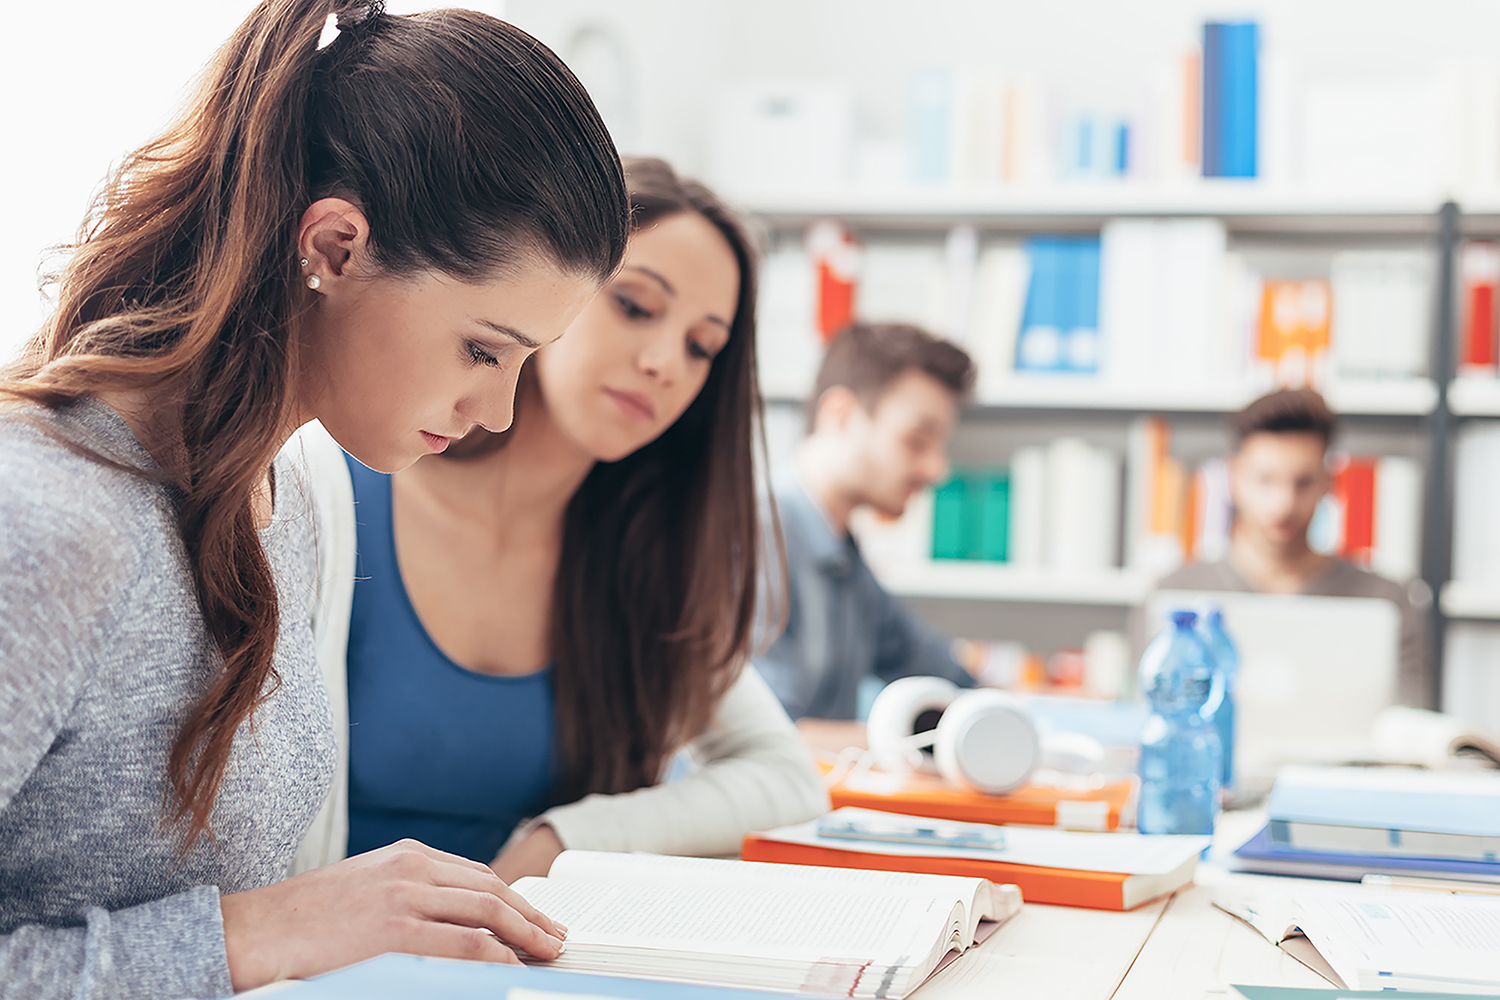
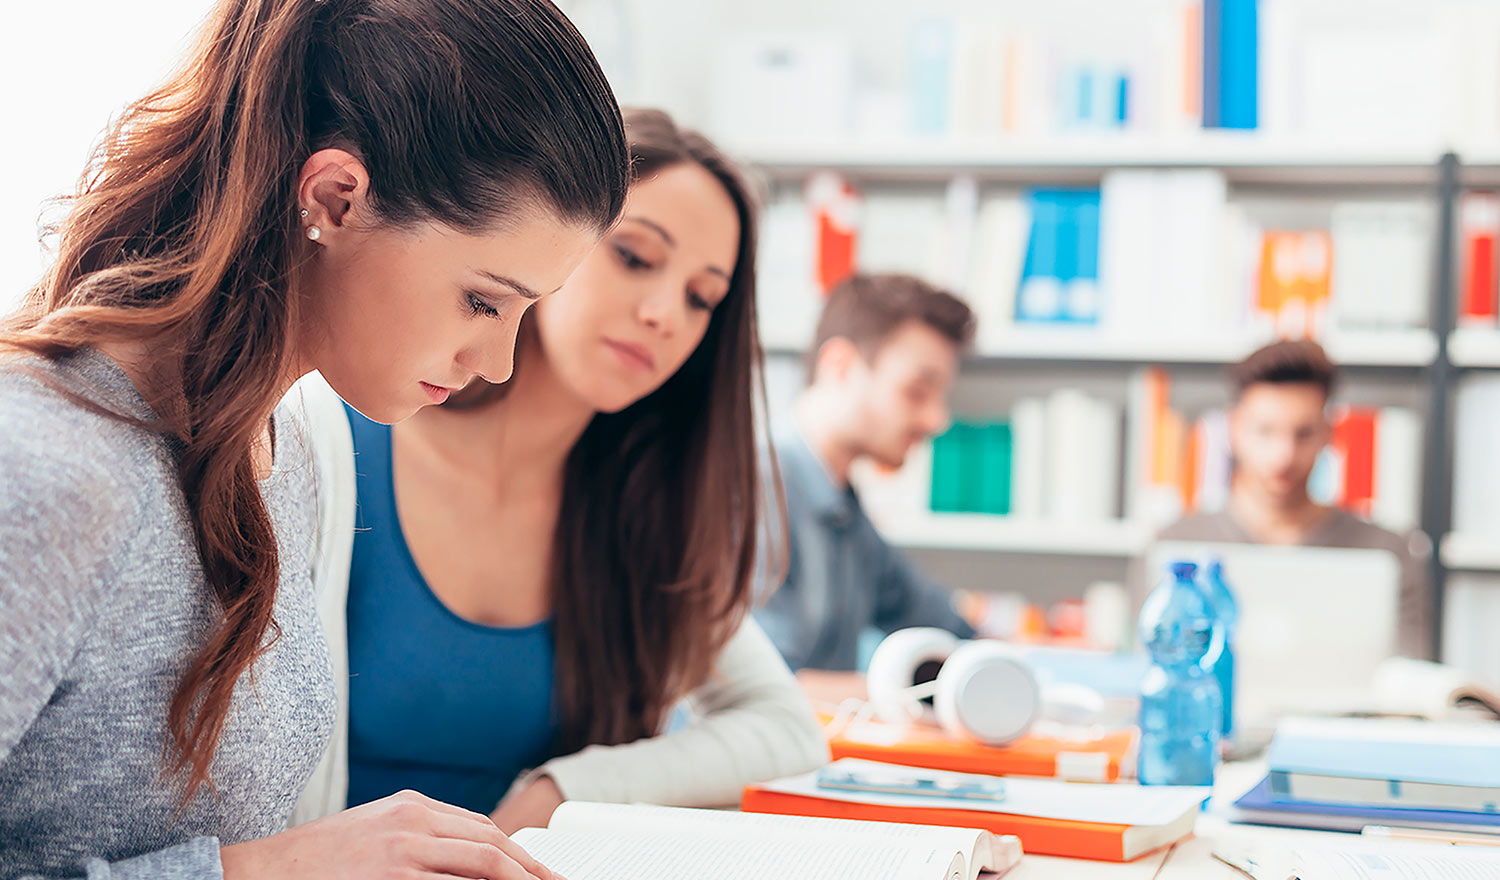
last version for adaptive

diff --git a/css/style.css b/css/style.css
@@ -18,7 +18,6 @@ img {
 }
 
 
-
 .container {
 	width: 100%;
 }
@@ -47,7 +46,6 @@ HEADER
 .header__sidebar ul li {
 	display: inline-block;
 }
-
 
 /*
 
@@ -1083,9 +1081,63 @@ a.rss {
 	display: block;
 	}
 
-	.navbar {
+	/*.navbar {
 		display: none;
 	}
+*/
+	.navbar__top ul {
+		padding: 0;
+		height: 100%;
+}
+
+	.navbar__top ul li {
+		display: block;
+		list-style-type: none;
+		padding: 0;
+		text-align: center;
+	}
+
+	.navbar__top ul li a {
+		
+	    text-transform: uppercase;
+	    font-size: 16px;
+	    font-family: 'Roboto', sans-serif;
+	    color: white;
+	    padding: 15px;
+	    line-height: 30px;
+	    text-decoration: none;
+}
+
+	.dropdown-menu {
+		position: static;
+	    left: 0;
+	    z-index: 1000;
+	    display: block;
+	    min-width: 100%;
+	    min-height: 80px;
+	    padding: 35px 0;
+	    list-style: none;
+	    background: #3d477f;
+	}
+
+
+	.dropdown-menu div.table {
+		display: block;
+		border-color: #3a87ad;
+		padding: 0;
+		border-spacing: 5px;
+	}
+
+	.dropdown-menu div.table ul.row {
+	  	display: block;
+	  
+	}
+
+	.dropdown-menu div.table ul li.cell {
+	  	display: block;
+	 
+	}
+
 
 
 }

diff --git a/index.html b/index.html
@@ -5,9 +5,12 @@
 		<link rel="stylesheet" href="css/reset.css">
 		<link rel="stylesheet" href="css/style.css">
 		<link rel="stylesheet" href="https://cdnjs.cloudflare.com/ajax/libs/font-awesome/4.7.0/css/font-awesome.min.css">
-		<meta name="viewport" content="initial-scale=1.0, width=device-width">
-		<title>Govzalla</title>
+		<meta name="viewport"> 
+		<script src="https://ajax.googleapis.com/ajax/libs/jquery/3.3.1/jquery.min.js"></script>
+	
 	</head>
+
+		<title>Govzalla</title>
 <body>
 	<!--HEADER CONTENT-->
 	<div class="container">
@@ -341,9 +344,13 @@
 			</div>
 		</div>
 	</div>
-	<script src="https://ajax.googleapis.com/ajax/libs/jquery/3.3.1/jquery.min.js"></script>
-	<script src="js/mado.js"></script>
-	<script src="js/menu.js"></script>
+		<script>
+		if(screen.width > 768) {
+		    document.write('<script src="js/menu.js"><\/script>');
+		}
+	</script>
+	<!-- <script src="js/menu.js"></script> -->
+	<script src="js/mado.js"></script>content="initial-scale=1.0, width=device-width">
 	<script>
 		// function for toggle btn navbar 
 		function myFunction(x) {

diff --git a/js/menu.js b/js/menu.js
@@ -1,5 +1,4 @@
 $(document).ready(function(){
-
 	$(function() {
 		$('.dropdown').hover(function(){
 			$(this).children('.dropdown-menu').stop(false,true).fadeIn(300)
